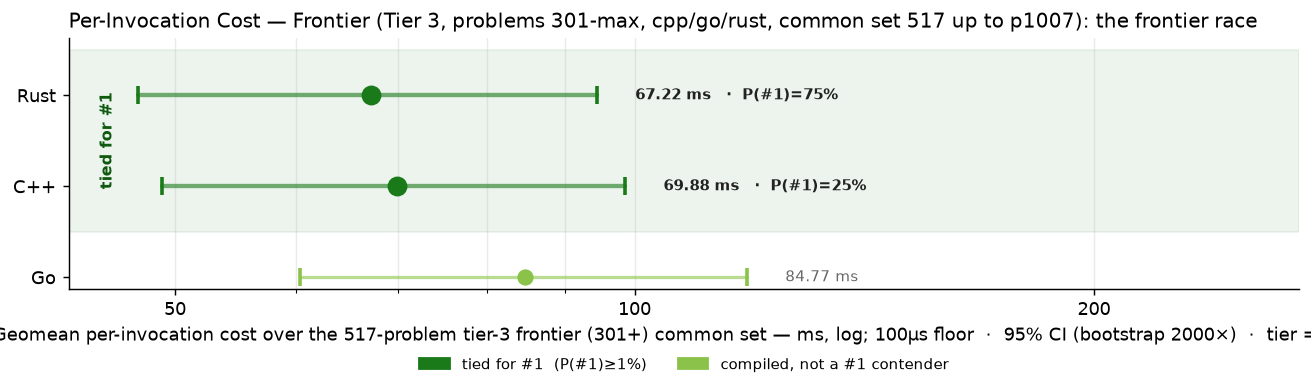
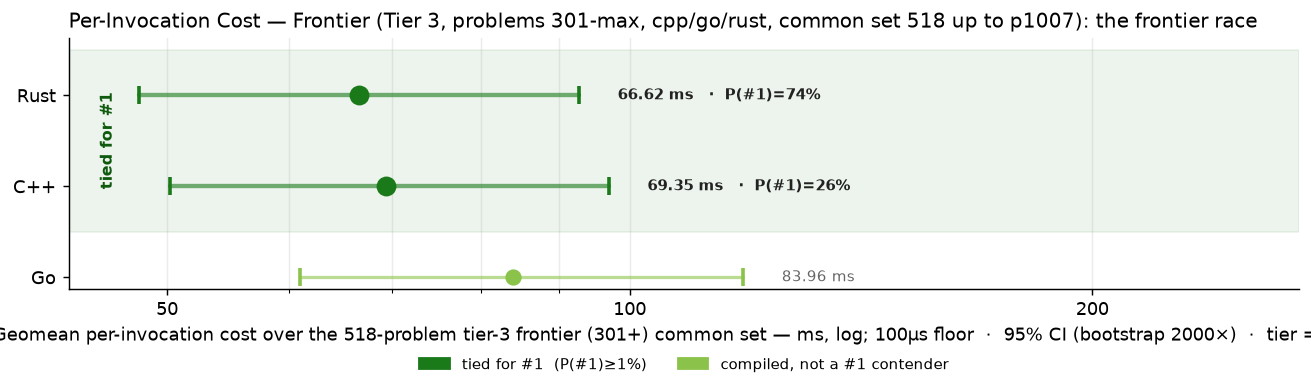
bench p0676 (L26)

diff --git a/RESULTS.md b/RESULTS.md
@@ -1,6 +1,6 @@
 # Project Euler — Cross-Language Benchmarks
 
-> **Scope: 4521 in-scope cells across 1007 problems × tiered languages — 3964 measured (87.7% coverage).**
+> **Scope: 4521 in-scope cells across 1007 problems × tiered languages — 3967 measured (87.7% coverage).**
 > The cross-language ranking below is computed over the **200-problem common set** (problems in 1-200 where every language has a passing measurement) — the apples-to-apples Foundation comparison surface.  Per-tier rankings and coverage detail appear further below.
 > Growing carefully — each new problem and language is audited for state-leak
 > safety, verified for answer correctness, and added only when it cleanly fits the
@@ -70,15 +70,15 @@ Same scatter as the Foundation chart, restricted to the tier-2 active languages 
 
 The frontier verification trio — C++, Go, Rust — on problems above 300. 3-way cross-language agreement is the verification protocol (strictly stronger than 2-way; see JOURNEY.md "Tier Reframing" episode for the p254 lesson that motivated it). Python and Zig are explicitly out of this tier — python's wall cost makes it impractical at level 5+, and zig's role caps at Tier 2.
 
-### Per-Invocation Cost (Common Set, 517 of ≤707 problems in scope)
+### Per-Invocation Cost (Common Set, 518 of ≤707 problems in scope)
 
 ![Per-Invocation Cost — Tier 3](charts/per_iter_total_tier3.png)
 
-| Rank | Language | Geomean (517-problem common set) | Total (sum) | Lines of code | vs Fastest |
+| Rank | Language | Geomean (518-problem common set) | Total (sum) | Lines of code | vs Fastest |
 |------|----------|--------------------:|------------:|--------------:|-----------:|
-| 1 | **Rust** | 67.22 ms | 1545.68 s | 86,133 | 1.00× |
-| 2 | **C++** | 69.88 ms | 1655.33 s | 67,015 | 1.04× |
-| 3 | **Go** | 84.77 ms | 1911.33 s | 83,987 | 1.26× |
+| 1 | **Rust** | 66.62 ms | 1545.68 s | 86,308 | 1.00× |
+| 2 | **C++** | 69.35 ms | 1655.33 s | 67,148 | 1.04× |
+| 3 | **Go** | 83.96 ms | 1911.33 s | 84,252 | 1.26× |
 
 ### Speed vs Code Size
 

diff --git a/per_problem/per_problem_0601-0700.md b/per_problem/per_problem_0601-0700.md
@@ -83,7 +83,7 @@ in tier-1 display order (native → managed → interpreted).
 | **p0673** | 242.6 µs~ | 68.8 µs | 187.5 µs~ |
 | **p0674** | — | — | — |
 | **p0675** | 2.65 s | 2.66 s | 3.20 s |
-| **p0676** | — | — | — |
+| **p0676** | 1.38 ms | 625.7 µs | 597.2 µs |
 | **p0677** | — | — | — |
 | **p0678** | 1.40 s | 6.25 s | 6.00 s |
 | **p0679** | 162.0 µs | 151.5 µs | 252.8 µs |
